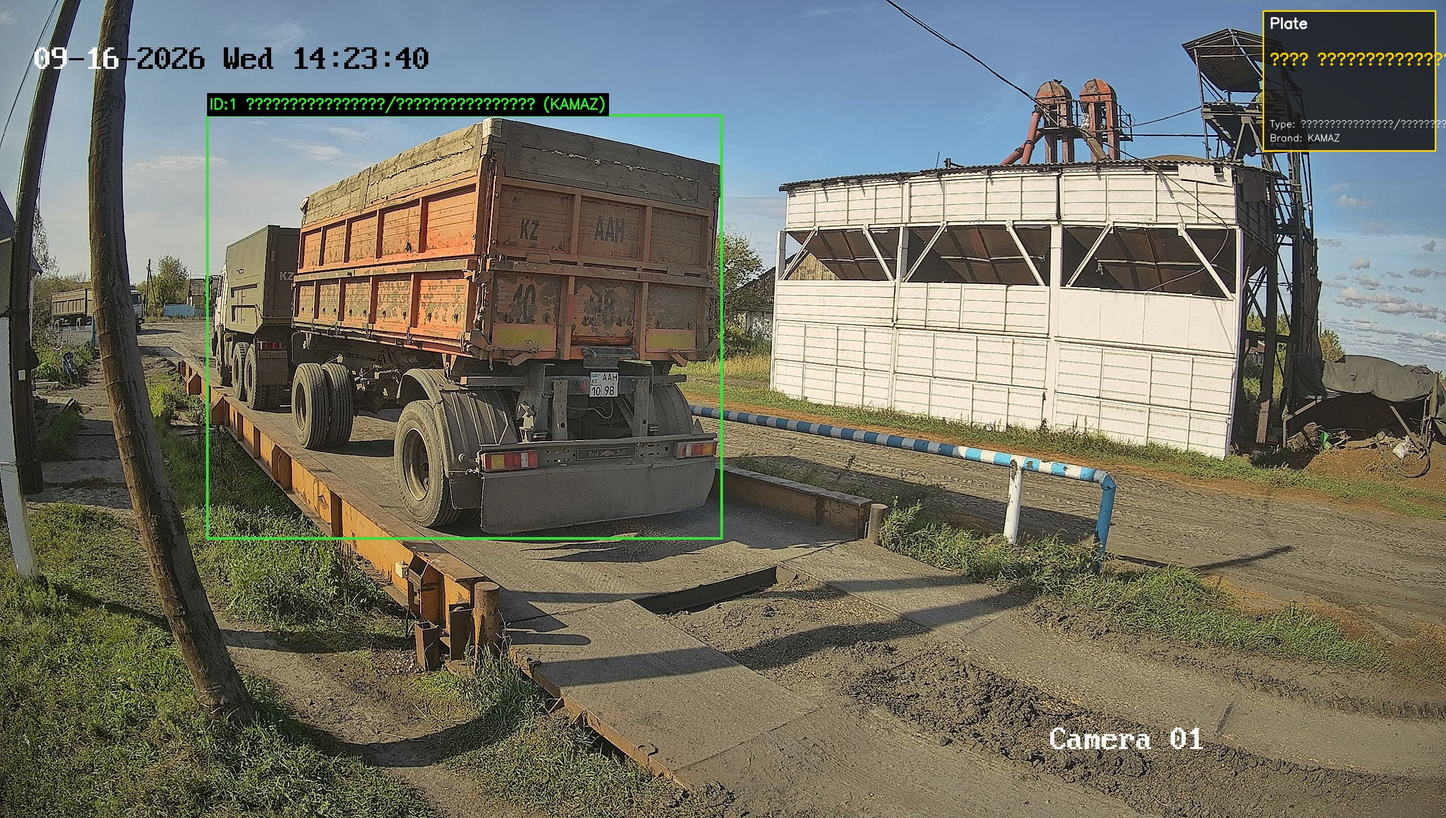
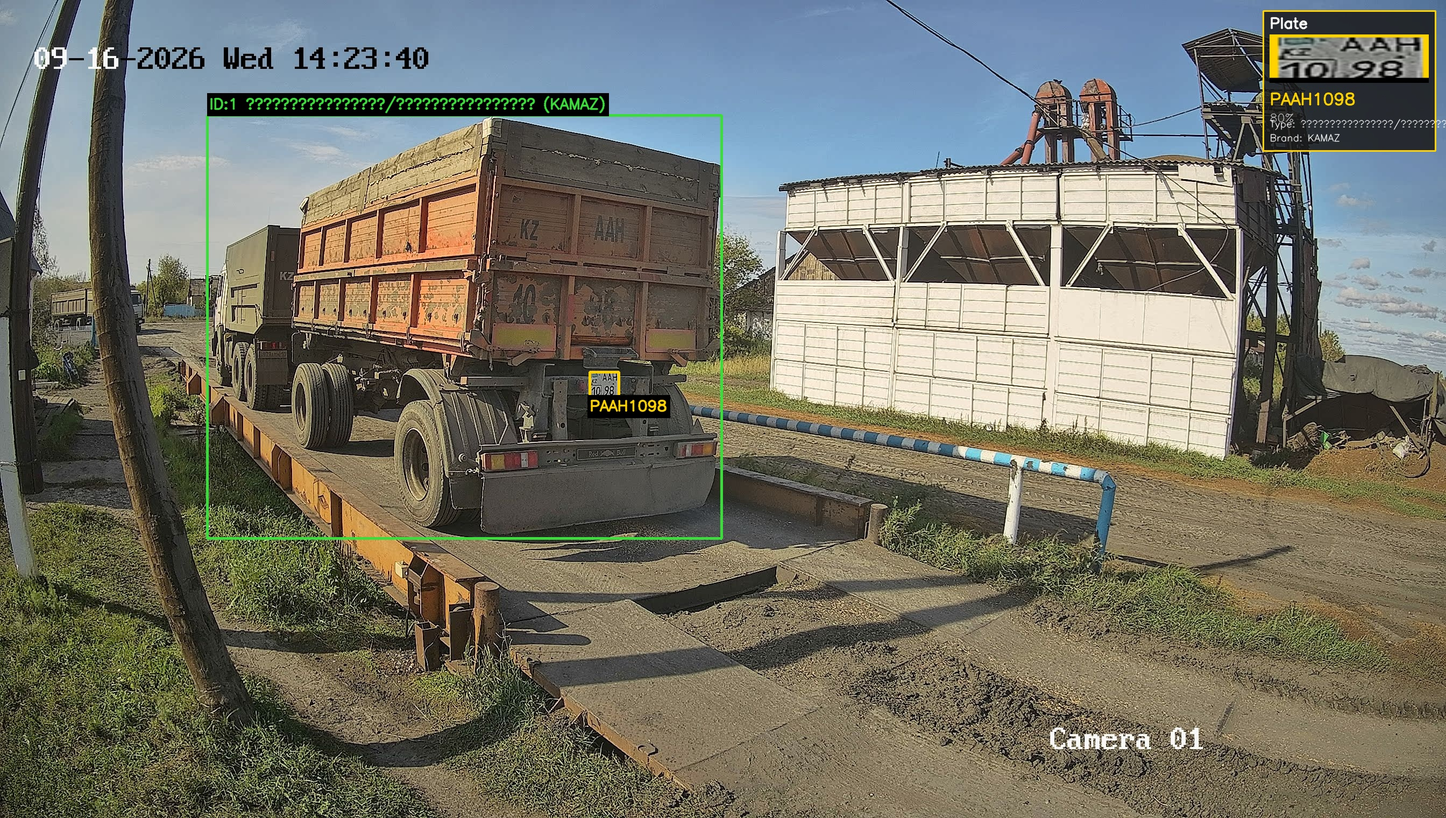
Support two-line plates and increase annotated sample count to 10
Old-style plates (letter series on top, number below, often blue
background — common on trailers/agricultural equipment) were only
read line-by-line and never matched the single-line format, so they
were silently dropped. Vertically stacked OCR fragments are now
merged in reading order and matched against a dedicated two-line
pattern, recovering plates like 4.jpg and 9.jpg.

Changed region(s): [[0.875, 0.0309, 1.0, 0.1546], [0.4062, 0.4329, 0.4688, 0.5257]]

diff --git a/src/plate.py b/src/plate.py
@@ -16,6 +16,10 @@ _ocr = None
 # слишком легко совпадает со штампом даты на кадре камеры (например "2019" в "2019 Tue").
 _FALLBACK_PLATE_REGEX = re.compile(r"^\d{2,3}[A-Z]{1,4}\d{0,4}$")
 _FALLBACK_LEN_RANGE = range(5, 10)
+# Номера старого двухстрочного образца (часто на синих табличках прицепов/спецтехники):
+# буквенная серия сверху, номер снизу — например "AFE" над "P523". OCR читает такие
+# строки как два отдельных фрагмента, поэтому их нужно сначала склеить по вертикали.
+_TWO_LINE_PLATE_REGEX = re.compile(r"^[A-Z]{1,4}\d{2,5}$")
 # Сколько символов слева пробуем отрезать перед строгим совпадением с форматом номера —
 # OCR иногда цепляет соседний код страны ("KZ"/"K2" слева от рамки номера) к тексту
 _MAX_PREFIX_TRIM = 3
@@ -67,6 +71,33 @@ def _run_ocr(crop):
     return results
 
 
+def _two_line_candidates(fragments):
+    """Ищет пары фрагментов, расположенных друг над другом (верхняя строка —
+    буквенная серия, нижняя — номер с кодом региона), и склеивает их в одного
+    кандидата в естественном порядке чтения (сверху вниз)."""
+    candidates = []
+    for text_a, conf_a, box_a in fragments:
+        ax1, ay1, ax2, ay2 = box_a
+        ah = max(ay2 - ay1, 1)
+        aw = max(ax2 - ax1, 1)
+        for text_b, conf_b, box_b in fragments:
+            bx1, by1, bx2, by2 = box_b
+            if by1 <= ay1:  # b должен быть строго ниже a (a — верхняя строка)
+                continue
+            bh = max(by2 - by1, 1)
+            x_overlap = min(ax2, bx2) - max(ax1, bx1)
+            if x_overlap < 0.4 * min(aw, bx2 - bx1):
+                continue
+            gap = by1 - ay2
+            if gap < -0.6 * max(ah, bh) or gap > 0.9 * max(ah, bh):
+                continue
+            merged_text = text_a + text_b
+            conf = min(conf_a, conf_b)
+            bbox = (min(ax1, bx1), ay1, max(ax2, bx2), by2)
+            candidates.append((merged_text, conf, bbox))
+    return candidates
+
+
 def _best_strict_match(text: str):
     """Пробует сам текст и его суффиксы (отрезая посторонний префикс вроде кода
     страны 'KZ'/'K2', слипшегося с рамкой номера) на точное совпадение с форматом
@@ -113,6 +144,15 @@ def find_plate(image, vehicle_bbox: tuple) -> PlateResult:
     ]
     if fallback_candidates:
         text, conf, bbox_local = max(fallback_candidates, key=lambda c: c[1])
+        return PlateResult(text, conf, to_global(bbox_local))
+
+    # 3) двухстрочный номер старого образца (серия сверху, номер снизу)
+    two_line_matches = [
+        (text, conf, bbox_local) for text, conf, bbox_local in _two_line_candidates(fragments)
+        if _TWO_LINE_PLATE_REGEX.match(text)
+    ]
+    if two_line_matches:
+        text, conf, bbox_local = max(two_line_matches, key=lambda c: c[1])
         return PlateResult(text, conf, to_global(bbox_local))
 
     return PlateResult(None, 0.0, None)

diff --git a/src/pipeline.py b/src/pipeline.py
@@ -22,7 +22,7 @@ from plate import find_plate, read_text_tokens  # noqa: E402
 from classify import classify_vehicle  # noqa: E402
 
 IMAGE_EXTS = {".jpg", ".jpeg", ".png"}
-N_ANNOTATED_SAMPLES = 6  # сколько размеченных картинок сохранить для демонстрации
+N_ANNOTATED_SAMPLES = 10  # сколько размеченных картинок сохранить для демонстрации
 
 
 def _put_label(image, text, org, color, scale=0.9, thickness=2, bg=(0, 0, 0)):
